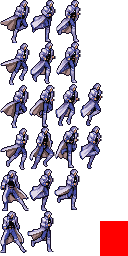
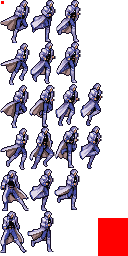
implement mouse action

Changed region(s): [[0.75, 0.8438, 1.0, 1.0], [0.0, 0.0, 0.0312, 0.0312]]

diff --git a/js/gridengine/Mouse.js b/js/gridengine/Mouse.js
@@ -6,35 +6,61 @@ function Mouse(renderer){
   this._stack = [];
 
   renderer.canvas.addEventListener('click', bind(this, this.handler), false);
-  // renderer.canvas.addEventListener('mousedown', bind(this, this.handler), false);
-  // renderer.canvas.addEventListener('mouseup', bind(this, this.handler), false);
+  // renderer.canvas.addEventListener('mousemove', bind(this, this.handler), false);
+  renderer.canvas.addEventListener('mousedown', bind(this, this.handler), false);
+  renderer.canvas.addEventListener('mouseup', bind(this, this.handler), false);
 }
 var p = Mouse.prototype;
 
+/**
+ * mousedown  MouseEvent  DOM L3  A pointing device button (usually a mouse) is pressed on an element.
+ * mouseenter   MouseEvent  DOM L3  A pointing device is moved onto the element that has the listener attached.
+ * mouseleave   MouseEvent  DOM L3  A pointing device is moved off the element that has the listener attached.
+ * mousemove   MouseEvent  DOM L3  A pointing device is moved over an element.
+ * mouseout   MouseEvent  DOM L3  A pointing device is moved off the element that has the listener attached or off one of its children.
+ * mouseover   MouseEvent  DOM L3  A pointing device is moved onto the element that has the listener attached or onto one of its children.
+ * mouseup   MouseEvent  DOM L3  A pointing device button is released over an element.
+ */
+Mouse.click = new Event('click');
+Mouse.mousedown = new Event('mousedown');
+Mouse.mouseenter = new Event('mouseenter');
+Mouse.mouseleave = new Event('mouseleave');
+Mouse.mousemove = new Event('mousemove');
+Mouse.mouseout = new Event('mouseout');
+Mouse.mouseover = new Event('mouseover');
+Mouse.mouseup = new Event('mouseup');
+
 p.handler = function(e){
-  var x = e.x - this.renderer.canvas.offsetLeft;
-  var y = e.y - this.renderer.canvas.offsetTop;
+  // Get the mouse position.
+  var x,y;
+  if (e.pageX || e.pageY){
+    x = e.pageX;
+    y = e.pageY;
+  }
+  else{
+    x = e.clientX + document.body.scrollLeft + document.documentElement.scrollLeft;
+    y = e.clientY + document.body.scrollTop + document.documentElement.scrollTop;
+  }
+  x -= this.renderer.canvas.offsetLeft;
+  y -= this.renderer.canvas.offsetTop;
 
-  // console.log(x, y)
-
+  // reset the array, getting ready to store object under the mouse position.
   this._stack.length = 0;
-
   this.traverse(e.type, this.renderer.stage, x, y);
 
-  // for(var i=0; i<this._stack.length; ++i){
-
-  // }
-  console.log(this._stack);
+  // dispatch event from the objects that under the mouse position.
+  for(var i=0; i<this._stack.length; ++i){
+    Mouse[e.type].targets = this._stack;
+    Mouse[e.type].x = x;
+    Mouse[e.type].y = y;
+    this._stack[i].dispatchEvent(Mouse[e.type]);
+  }
 }
 
 p.traverse = function(type, node, x, y){
   var hit = HitTest.process(node, x, y);
   if(hit)
     this._stack.push(node);
-
-  // if(node instanceof Bitmap){
-  //   console.log(node, hit);
-  // }
 
   if(node instanceof Container){
     var len = node.numChildren;

diff --git a/js/gridengine/HitTest.js b/js/gridengine/HitTest.js
@@ -5,19 +5,21 @@ HitTest.canvas.width = HitTest.canvas.height = 1;
 HitTest.context = HitTest.canvas.getContext('2d');
 
 HitTest.process = function(displayObject, x, y){
-  this.context.save();
-  // since we only draw 1 pixel, the pixel that needs testing. Just translate the pixel to the 0, 0 position, that is translate -x, -y.
-  this.context.setTransform(1, 0, 0, 1, -x, -y);
+  // console.log(x,y);
+
+  // With all its transformation matrix ready, directly draw the display object onto the 1px context.
+  // And then, simply do a inverse of the mouse position to locate the correct pixel.
+  var m = displayObject.concatedMatrix;
+  HitTest.context.setTransform(m.a, m.b, m.c, m.d, m.tx-x, m.ty-y);
   // draw the pixel that needs testing.
-  displayObject.draw(this.context);
+  displayObject.draw(HitTest.context);
 
-  // Get the alpha from the testing pxiel, If it is none 0, it's a hit
-  var hit = this.context.getImageData(0, 0, 1, 1).data[3] > 0;
+  // Get the alpha from the testing pixel, If it is none 0, it's a hit
+  var hit = HitTest.context.getImageData(0, 0, 1, 1).data[3] > 0;
 
-  console.log(displayObject, this.context.getImageData(0, 0, 1, 1).data, hit);
-
-  this.context.restore();
-  this.context.clearRect(0, 0, 1, 1);
+  // reset and clear the 1 pixel context.
+  HitTest.context.setTransform(1, 0, 0, 1, 0, 0);
+  HitTest.context.clearRect(0, 0, 1, 1);
 
   return hit;
 }

diff --git a/js/editor/Editor.js b/js/editor/Editor.js
@@ -3,9 +3,9 @@ var renderer = new CanvasRenderer();
 var activity = new Activity(renderer.stage);
 var activityController = new ActivityController(activity);
 
-// var bmp = new Bitmap();
-// bmp.load('somacruz.png');
-// renderer.stage.addChild(bmp);
-// bmp.scaleX = bmp.scaleY = 0.5;
-// bmp.x = 300;
-// bmp.y = 400;
+var bmp = new Bitmap();
+bmp.load('somacruz.png');
+renderer.stage.addChild(bmp);
+bmp.scaleX = bmp.scaleY = 0.5;
+bmp.x = 300;
+bmp.y = 400;

diff --git a/js/editor/Activity.js b/js/editor/Activity.js
@@ -46,8 +46,10 @@ p.onComplete = function(){
   for(var i=0; i<1; ++i){
     this.scenes[i] = new Scene(this.slots[i].width, this.slots[i].height);
     this.addChild(this.scenes[i]);
-    this.scenes[i].x = this.slots[i].x;
-    this.scenes[i].y = this.slots[i].y;
+    // this.scenes[i].x = this.slots[i].x;
+    // this.scenes[i].y = this.slots[i].y;
+    // this.scenes[i].x = 10
+    // this.scenes[i].y = 15
   }
 }
 

diff --git a/js/display/Scene.js b/js/display/Scene.js
@@ -13,5 +13,13 @@ function Scene(w, h){
     this.addChild(bmp);
     // bmp.scaleX = bmp.scaleY = 0.4;
   // }
+
+  this.addListener('mouseup', function(e){
+    console.log(e);
+  })
+
+  bmp.addListener('mousedown', function(e){
+    console.log(e);
+  })
 }
 var p = Scene.prototype = Object.create(Container.prototype);
